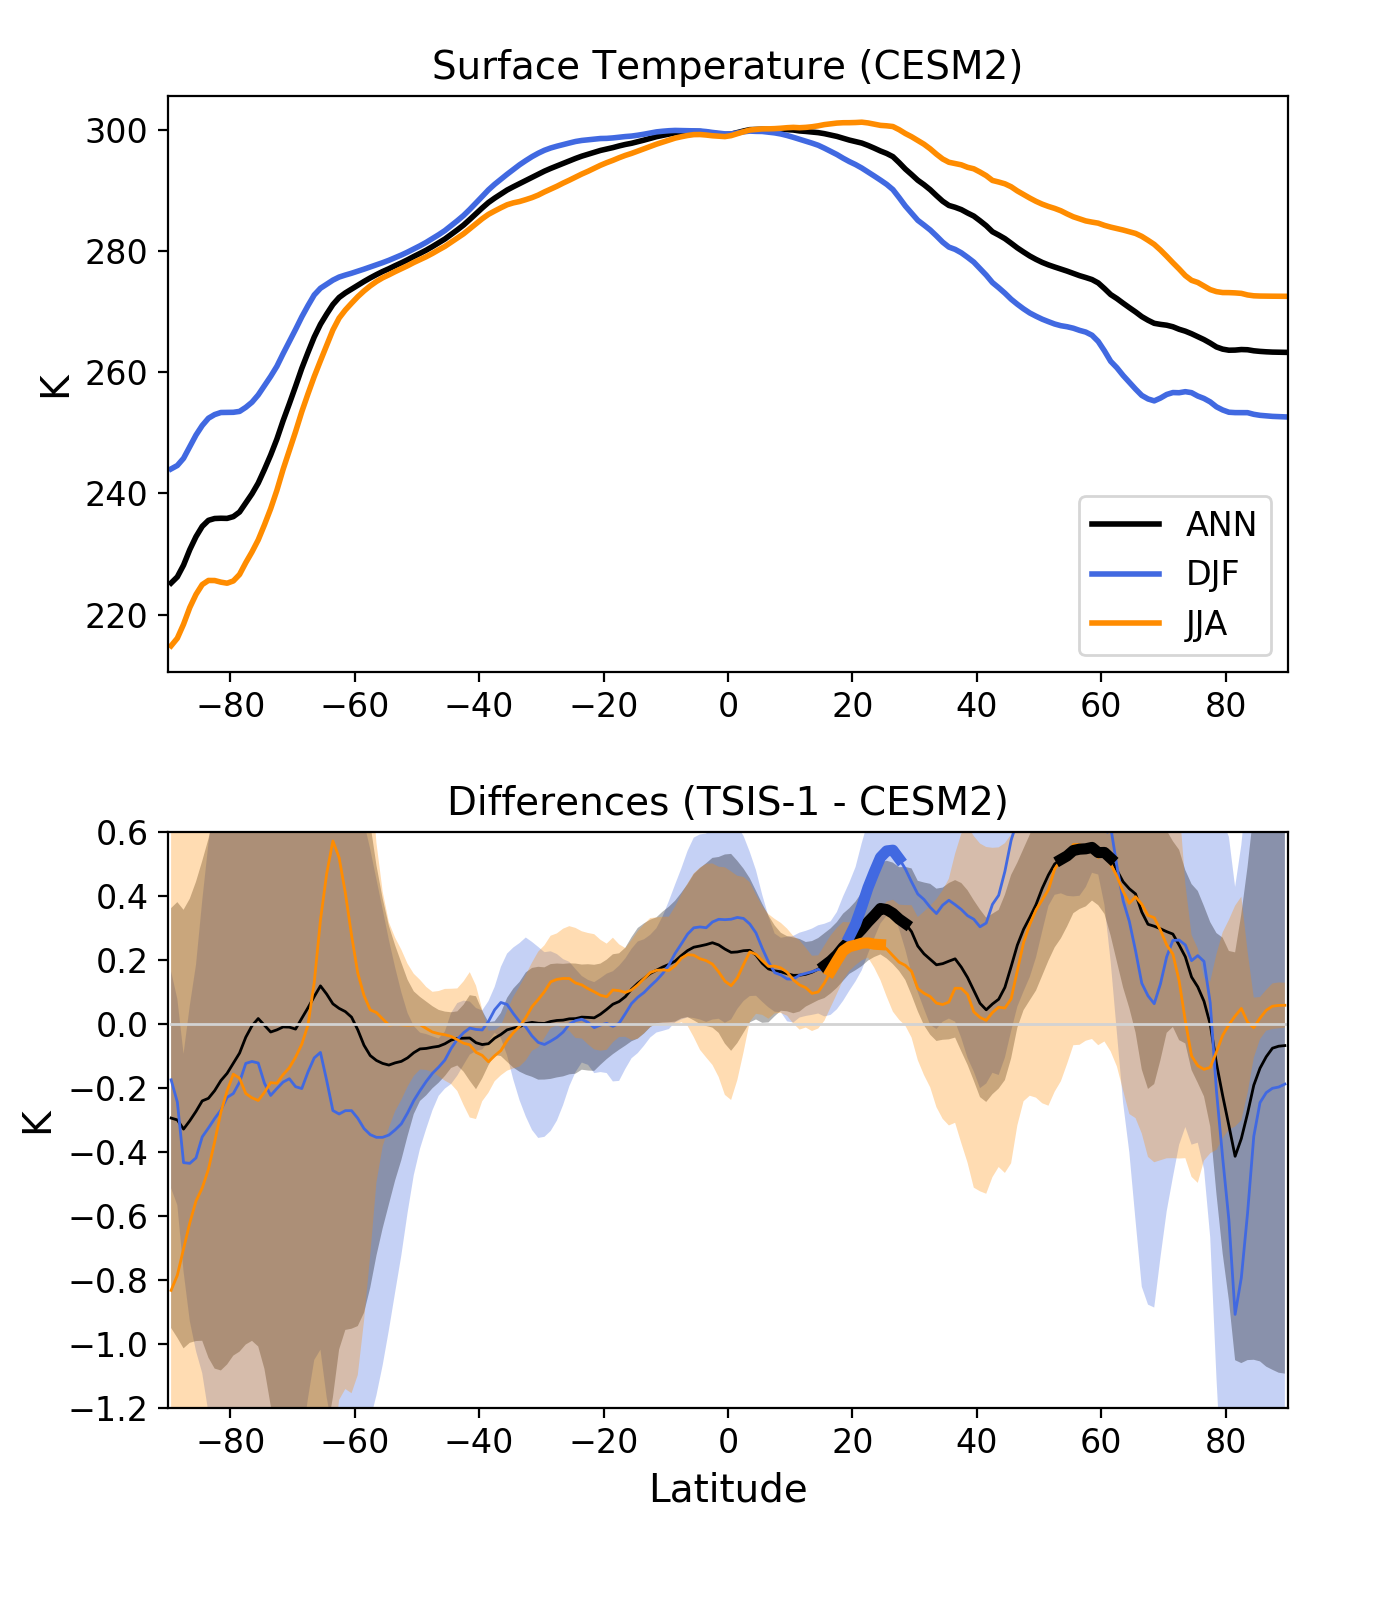
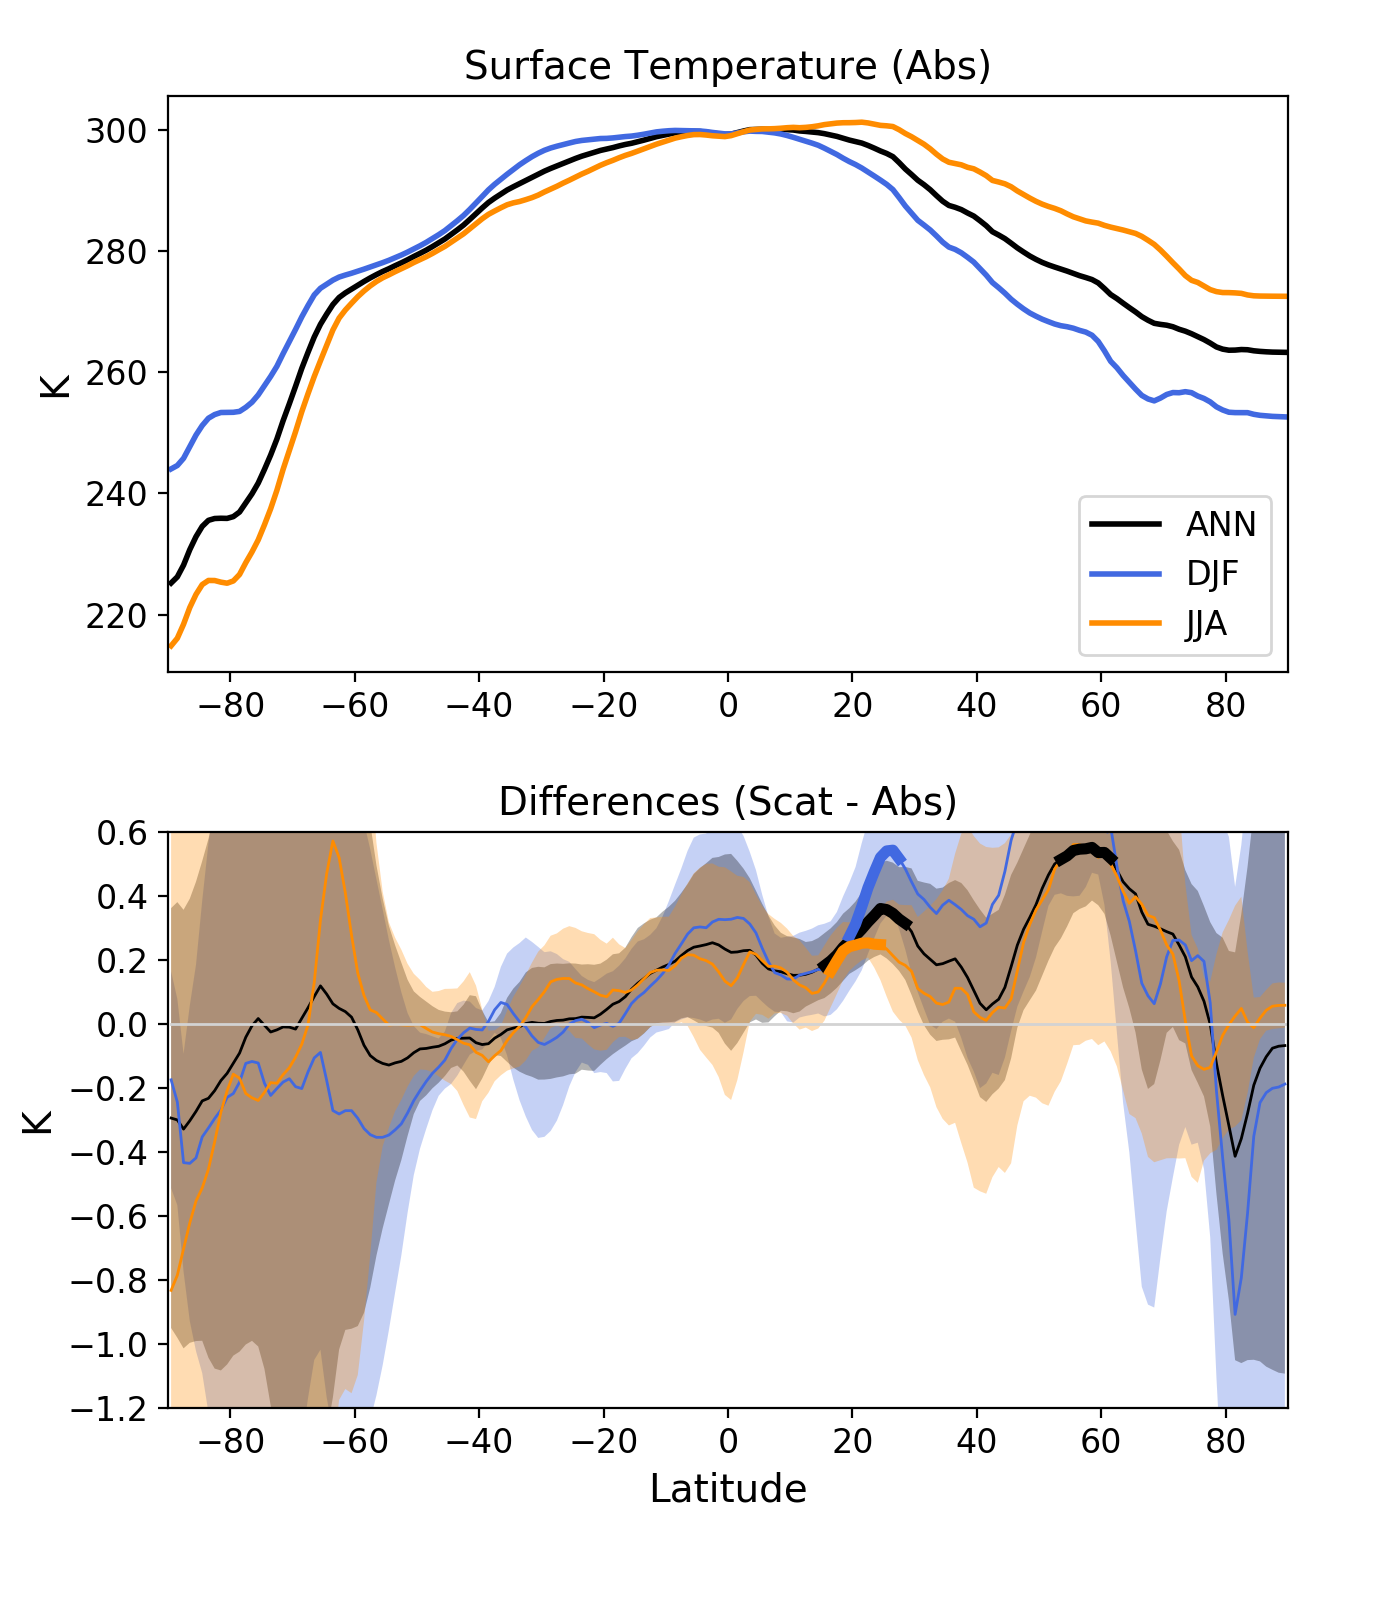
modify title

Changed region(s): [[0.3379, 0.4688, 0.5836, 0.5312], [0.3071, 0.0312, 0.7371, 0.0625], [0.6143, 0.4688, 0.7064, 0.5312]]

diff --git a/d4_zonal_mean_model_vs_model.py b/d4_zonal_mean_model_vs_model.py
@@ -238,7 +238,7 @@ ax1.plot(lat[:],means_ctl_JJA[0,:],color="darkorange",lw=2,ls="-",label="JJA")
 #ax1.plot(lat[:],means_exp[0,:],color="k",lw=2,ls=":",label="TSIS")
 #ax1.legend(loc="upper left",fontsize=12)
 ax1.legend(fontsize=12)
-ax1.set_title("Surface Temperature (CESM2)",fontsize=14)
+ax1.set_title("Surface Temperature (Abs)",fontsize=14)
 ax1.set_ylabel(units,fontsize=14)
 #ax1.set_xlabel("Latitude",fontsize=14)
 ax1.set_xlim(-90,90)
@@ -260,7 +260,7 @@ ax2.plot(lat[:],diffs_sig[0,:],color="k",lw=4,alpha=1.)
 ax2.plot(lat[:],diffs_sig_DJF[0,:],color="royalblue",lw=4,alpha=1.)
 ax2.plot(lat[:],diffs_sig_JJA[0,:],color="darkorange",lw=4,alpha=1.)
 ax2.plot(lat[:],zeros[0,:],color="lightgray",lw=1)
-ax2.set_title("Differences (TSIS-1 - CESM2)",fontsize=14) #+var_long_name,fontsize=12)
+ax2.set_title("Differences (Scat - Abs)",fontsize=14) #+var_long_name,fontsize=12)
 ax2.set_ylabel(units,fontsize=14)
 ax2.set_xlabel("Latitude",fontsize=14)
 ax2.set_xlim(-90,90)
